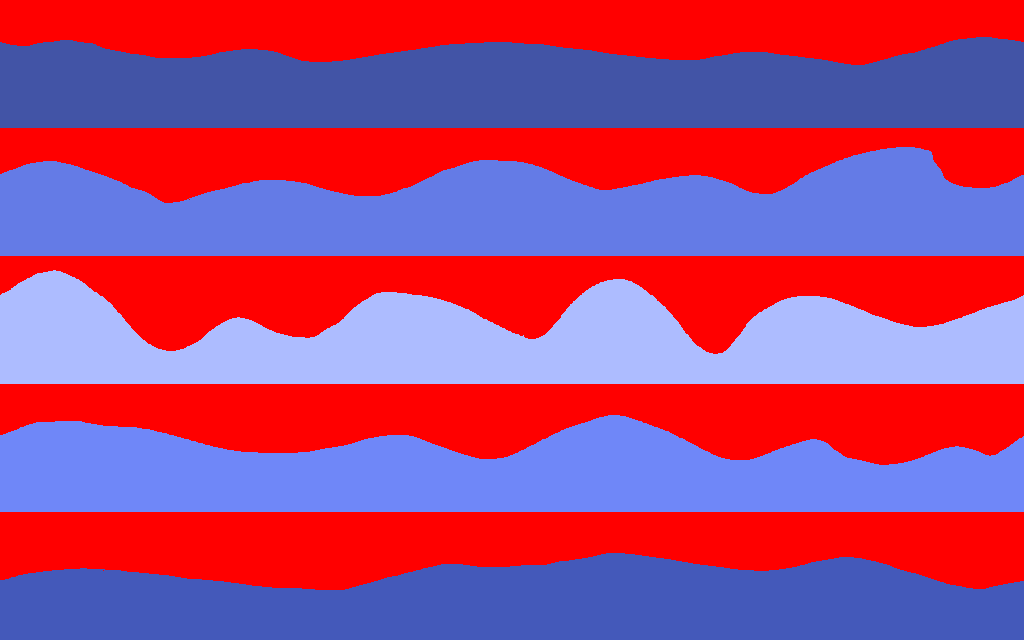
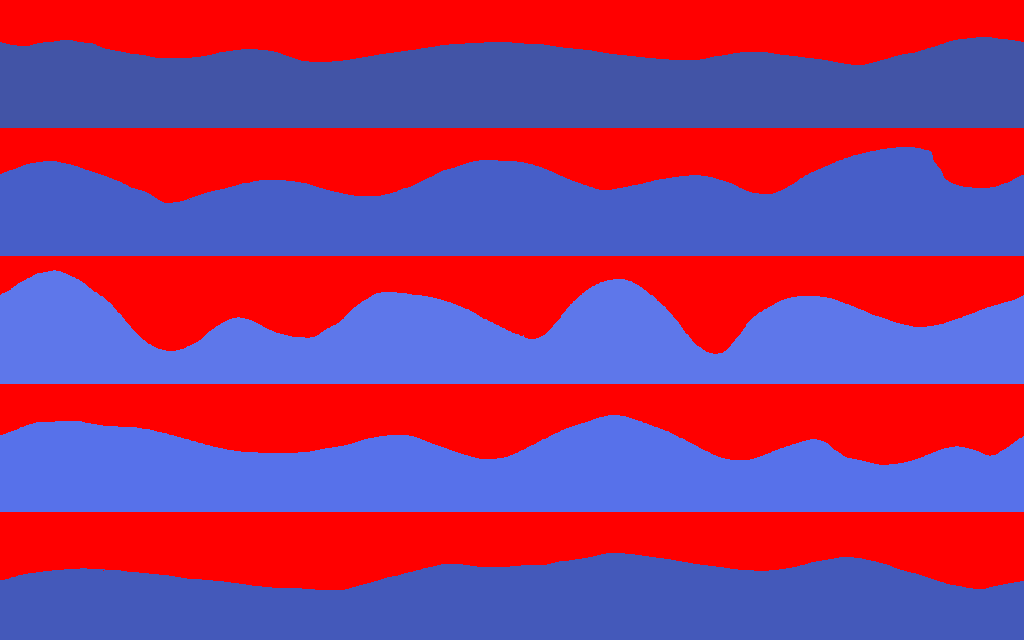
updated the waves for the sortie selection menu to be hand colored rather than generated througha  gradient

Changed region(s): [[0.0, 0.2188, 1.0, 0.625]]

diff --git a/src/constants.py b/src/constants.py
@@ -122,39 +122,19 @@ create_shell_sprite("AP", (0, 255, 255))
 
 DataFiles.sprites["encounter"]["num_waves"] = 5
 
-def create_encounter_wave_sprite(wave_index):
-    wave = DataFiles.sprites["encounter"][f"wave{wave_index}"]
+def create_wave_sprite(sprite_group, wave_index):
+    wave = DataFiles.sprites[sprite_group][f"wave{wave_index}"]
     higher_wave = pygame.Surface((wave.get_width(), 2*wave.get_height()))
     wave_color = wave.get_at((0, wave.get_height()-1))
     higher_wave.fill(wave_color)
     wave.set_colorkey(wave_color)
     higher_wave.blit(wave, (0,0))
     higher_wave.set_colorkey((255,0,0))
-    DataFiles.sprites["encounter"][f"wave{wave_index}"] = higher_wave
+    DataFiles.sprites[sprite_group][f"wave{wave_index}"] = higher_wave
 
 for wave_index in range(DataFiles.sprites["encounter"]["num_waves"]):
-    create_encounter_wave_sprite(wave_index)
+    create_wave_sprite("encounter", wave_index)
 
-def create_sortie_select_wave_sprite(wave_index, wave_color):
-    wave = DataFiles.sprites["sortie_selection"]["wave"]
-    wave.set_colorkey((255,255,255))
-    colored_wave = pygame.Surface((wave.get_width(), 2*wave.get_height()))
-    colored_wave.fill(wave_color)
-    colored_wave.blit(wave, (0,0))
-    colored_wave.set_colorkey((255,0,0))
-    wave.set_colorkey((255,0,0))
-
-    DataFiles.sprites["sortie_selection"][f"wave{wave_index}"] = colored_wave
-
-num_waves = 7
-base_hue = 0.6
-for wave_index in range(num_waves):
-    t = wave_index / (num_waves - 1)
-    s = min(1, 4*(t-0.4)**2)
-    saturation = 0.65 + s * 0.35
-    value = 0.9 - s * 0.5
-    r, g, b = colorsys.hsv_to_rgb(base_hue, saturation, value)
-    wave_color = (int(r*255), int(g*255), int(b*255))
-    create_sortie_select_wave_sprite(num_waves-1-wave_index, wave_color)
-
-DataFiles.sprites["sortie_selection"]["num_waves"] = num_waves
+DataFiles.sprites["sortie_selection"]["num_waves"] = 7
+for wave_index in range(DataFiles.sprites["sortie_selection"]["num_waves"]):
+    create_wave_sprite("sortie_selection", wave_index)

diff --git a/src/menus/sortie_selection_menu.py b/src/menus/sortie_selection_menu.py
@@ -128,9 +128,8 @@ class SortieSelectionMenu:
         self.exit_sortie_selection_menu_button = Button(rect=button_rect,sprite=button_sprite,callback=exit_sortie_selection_menu)
 
         num_waves = DataFiles.sprites["sortie_selection"]["num_waves"]
-        wave_layer = DataFiles.sprites["sortie_selection"]["wave"]
         self.wave_ys = [
-            screen_y(0.5) + wave_layer.get_height()/2*(i-num_waves/2)
+            screen_y(0.5) + 64*(i-num_waves/2)
             for i in range(num_waves)
         ]
         self.wave_timers = [

diff --git a/src/menus/equipment_menu.py b/src/menus/equipment_menu.py
@@ -88,9 +88,8 @@ class EquipmentMenu:
         )
 
         num_waves = DataFiles.sprites["sortie_selection"]["num_waves"]
-        wave_layer = DataFiles.sprites["sortie_selection"]["wave"]
         self.wave_ys = [
-            screen_y(0.5) + wave_layer.get_height()/2*(i-num_waves/2)
+            screen_y(0.5) + 64*(i-num_waves/2)
             for i in range(num_waves)
         ]
         self.wave_timers = [
